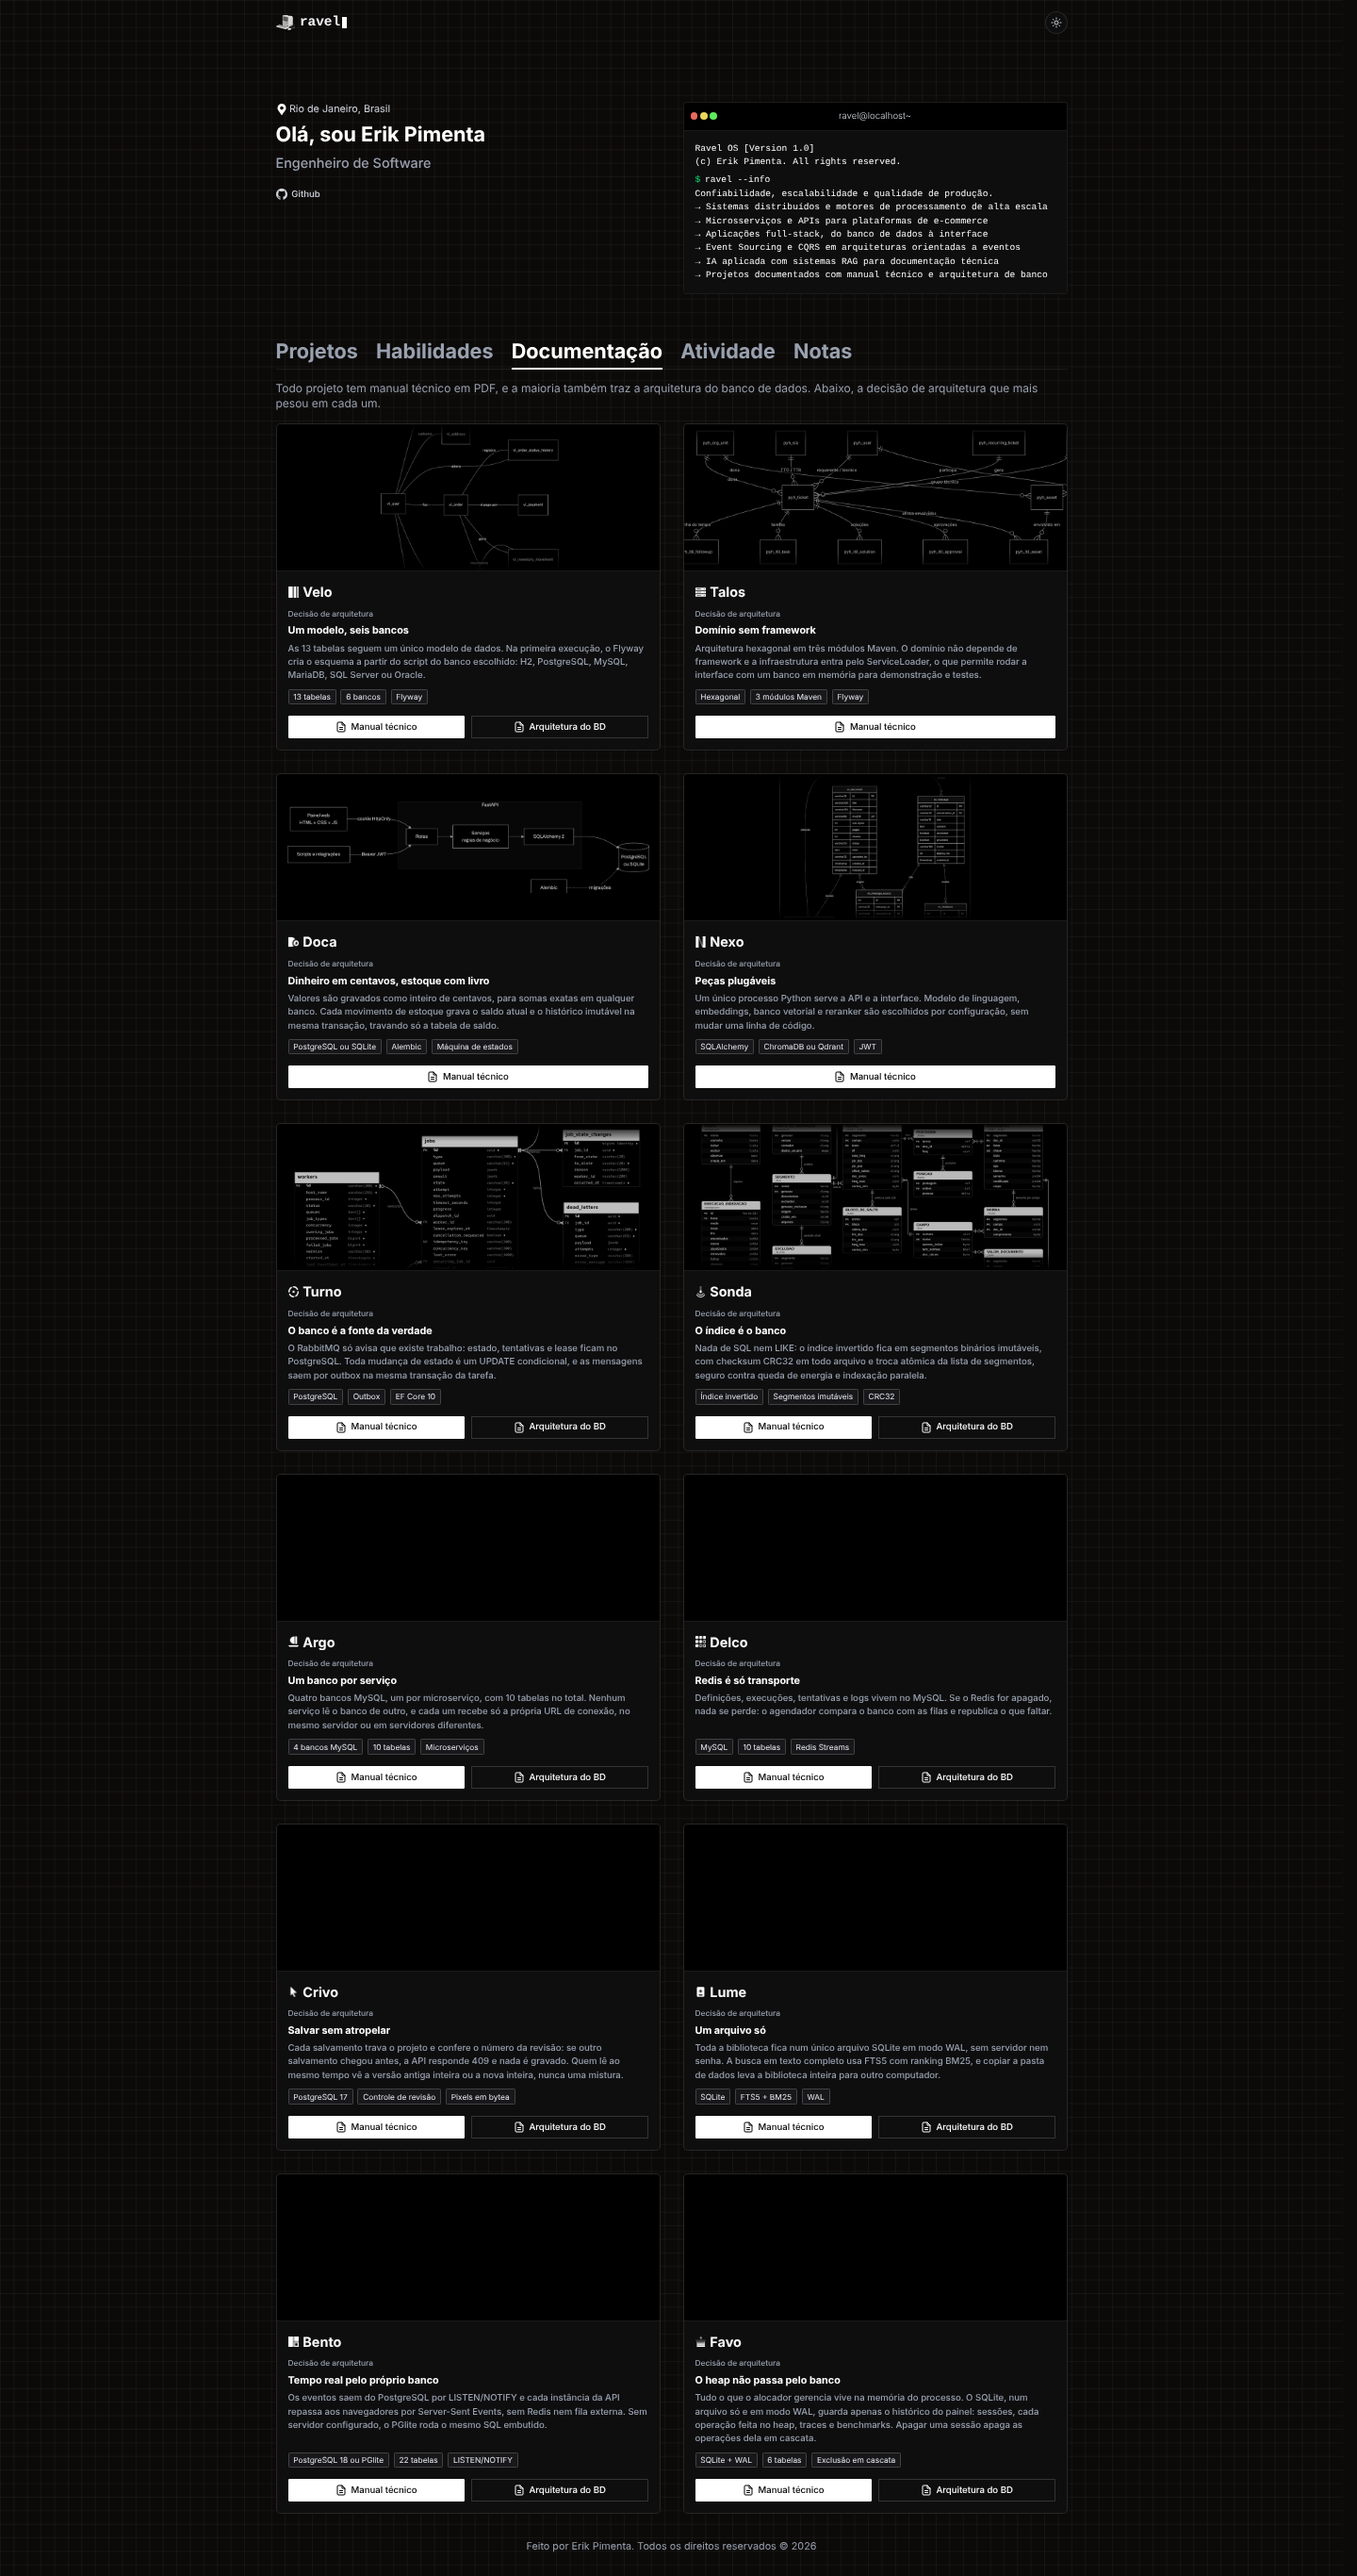
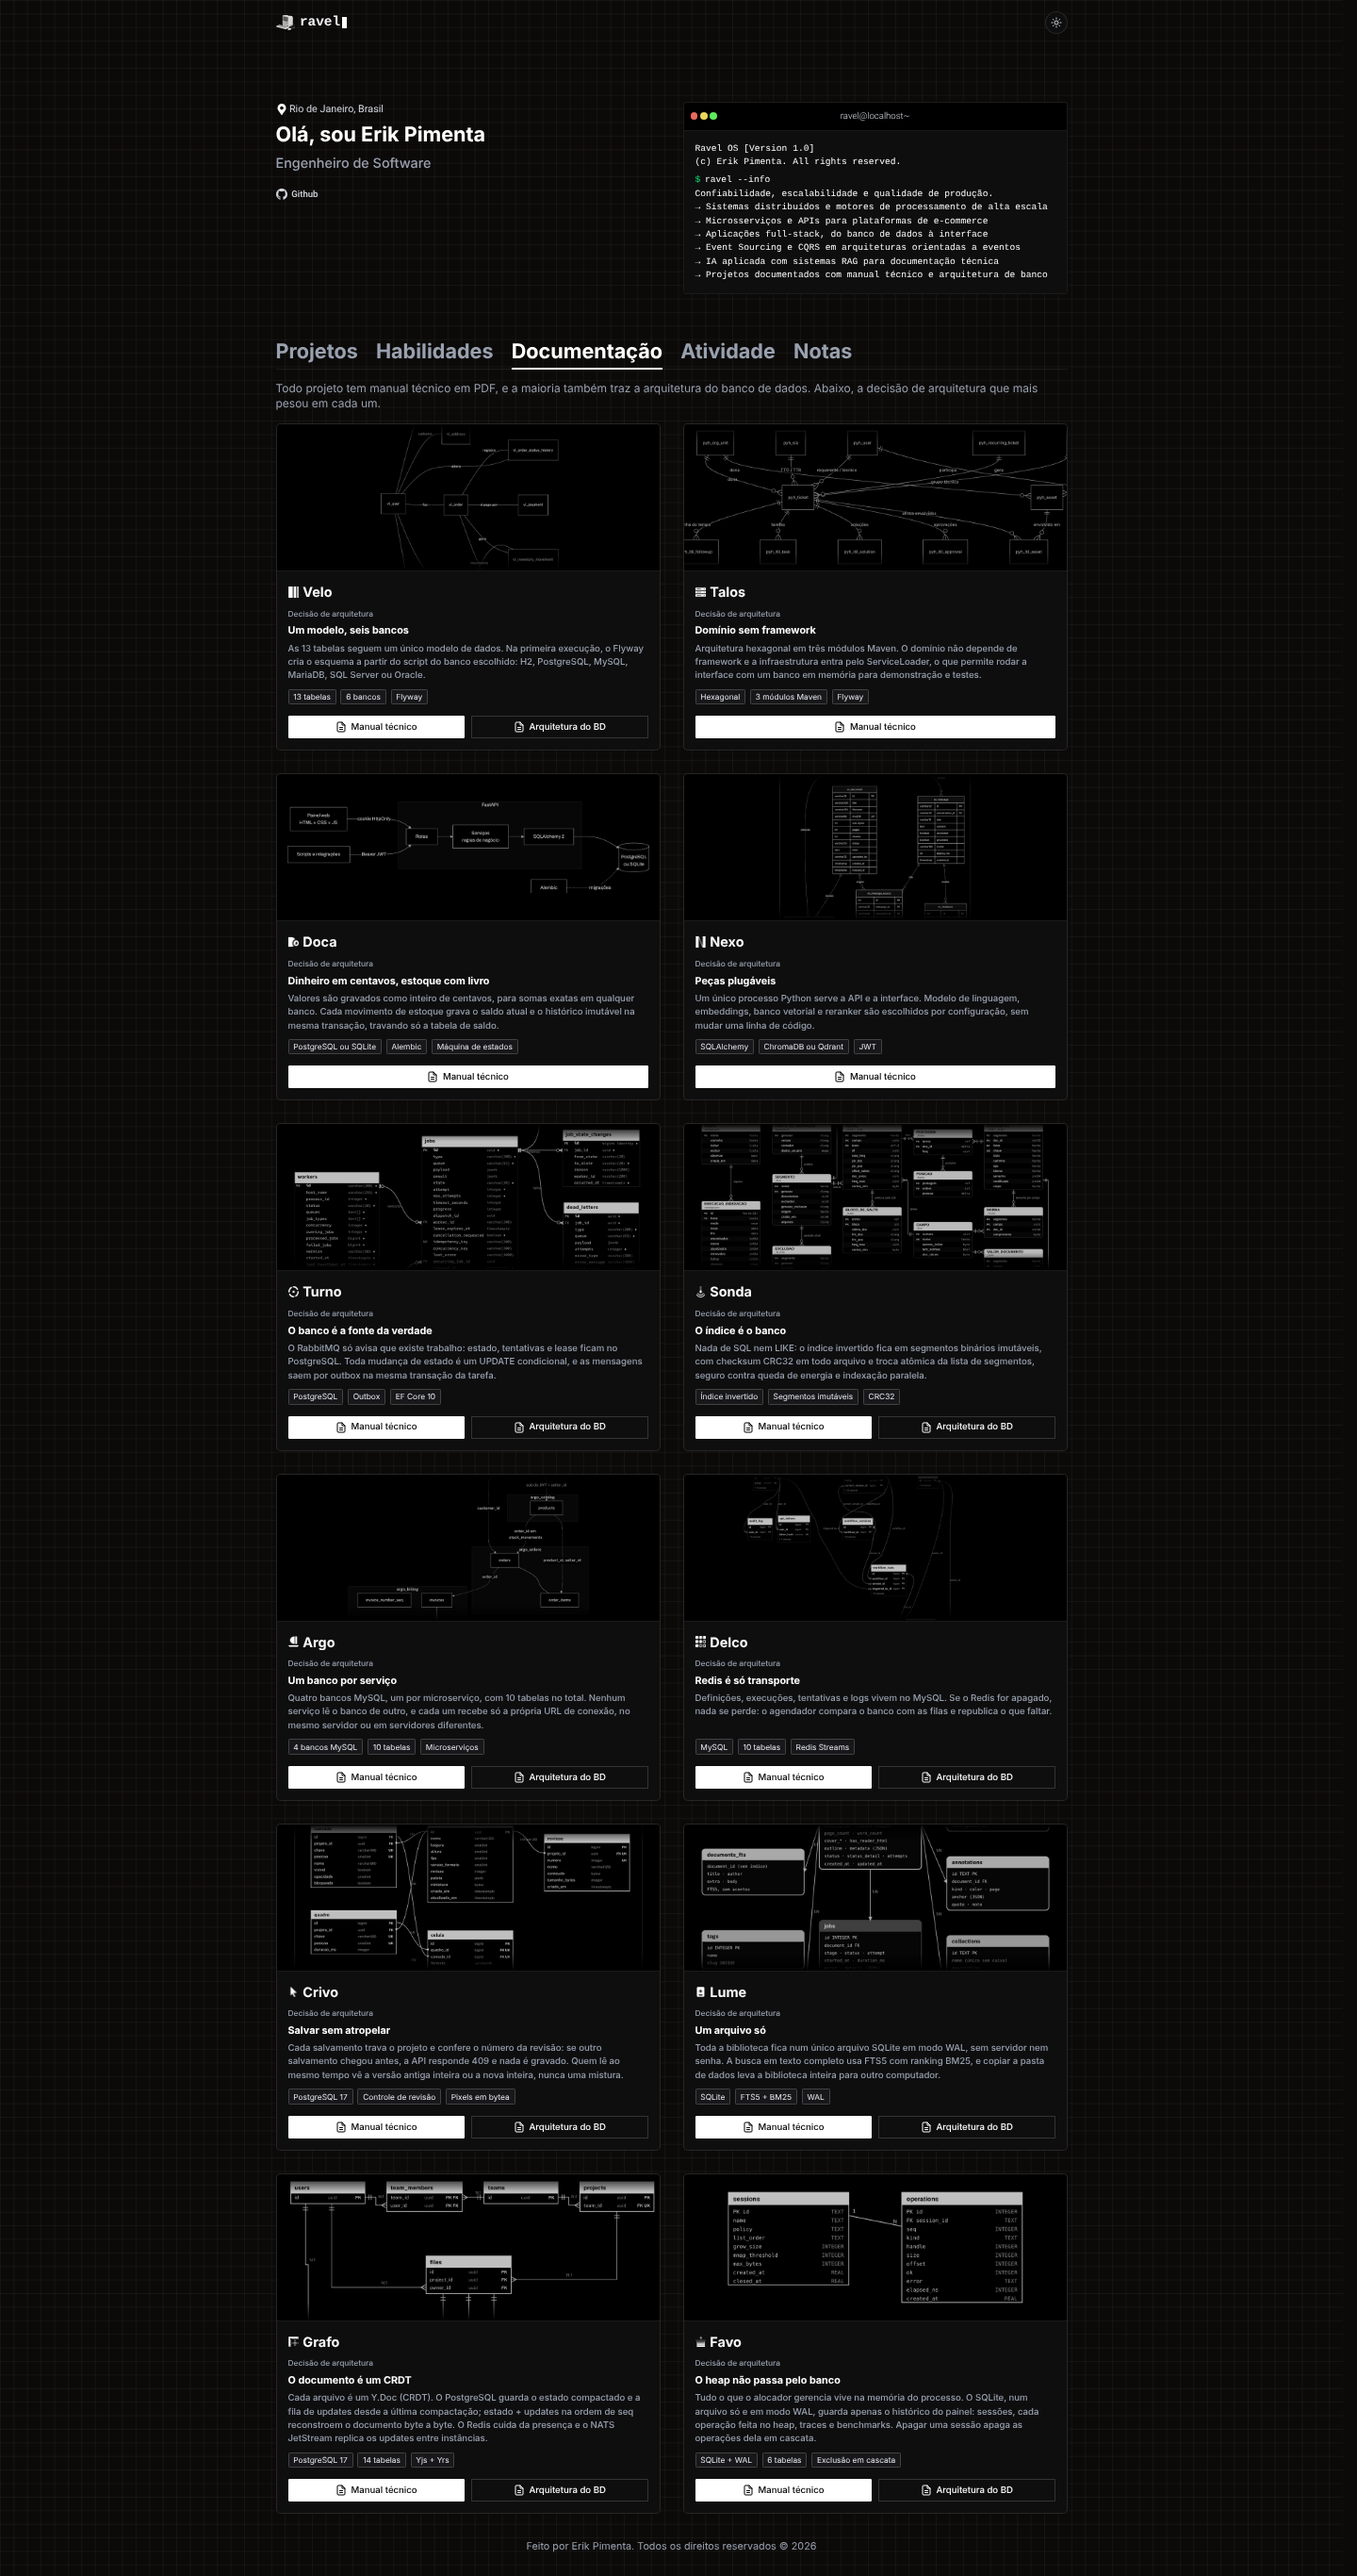
Portfólio 1.32.0: Grafo no lugar do Bento

diff --git a/js/documentacao.js b/js/documentacao.js
@@ -100,14 +100,14 @@ const DOCUMENTACAO = [
 		banco: "https://github.com/ravelroot/Document-Library-Desktop/blob/main/Banco-de-Dados-Lume-Desktop.pdf"
 	},
 	{
-		titulo: "Bento",
-		miniatura: "assets/documentacao/bento.png",
-		miniaturaDescricao: "Diagrama de relacionamentos do Bento, com a tabela de usuários no centro",
-		decisao: "Tempo real pelo próprio banco",
-		texto: "Os eventos saem do PostgreSQL por LISTEN/NOTIFY e cada instância da API repassa aos navegadores por Server-Sent Events, sem Redis nem fila externa. Sem servidor configurado, o PGlite roda o mesmo SQL embutido.",
-		destaques: ["PostgreSQL 18 ou PGlite", "22 tabelas", "LISTEN/NOTIFY"],
-		manual: "https://github.com/ravelroot/Data-Driven-Admin-Panel/blob/main/Manual-Bento.pdf",
-		banco: "https://github.com/ravelroot/Data-Driven-Admin-Panel/blob/main/Banco-de-Dados-Bento.pdf"
+		titulo: "Grafo",
+		miniatura: "assets/documentacao/grafo.png",
+		miniaturaDescricao: "Diagrama de relacionamentos do Grafo, das equipes e projetos até a tabela de arquivos",
+		decisao: "O documento é um CRDT",
+		texto: "Cada arquivo é um Y.Doc (CRDT). O PostgreSQL guarda o estado compactado e a fila de updates desde a última compactação; estado + updates na ordem de seq reconstroem o documento byte a byte. O Redis cuida da presença e o NATS JetStream replica os updates entre instâncias.",
+		destaques: ["PostgreSQL 17", "14 tabelas", "Yjs + Yrs"],
+		manual: "https://github.com/ravelroot/Collaborative-Design-and-Diagram-Editor/blob/main/Manual-Grafo.pdf",
+		banco: "https://github.com/ravelroot/Collaborative-Design-and-Diagram-Editor/blob/main/Banco-de-Dados-Grafo.pdf"
 	},
 	{
 		titulo: "Favo",

diff --git a/js/projetos.js b/js/projetos.js
@@ -83,12 +83,12 @@ const PROJETOS = [
 		tecnologias: ["Java", "Spring Boot", "SQLite", "PDFBox", "pdf.js", "Javascript", "Playwright"]
 	},
 	{
-		titulo: "Bento",
-		categoria: "Painel administrativo",
-		icone: "assets/projetos/bento.png?v=2",
-		descricao: "Bento é um painel administrativo SaaS em bento grid feito com Tailwind CSS v4: modo claro/escuro salvo no localStorage, KPIs com tendência, gráficos ApexCharts, tabelas com ordenação, busca e paginação, e gavetas laterais. API em TypeScript (Fastify) com PostgreSQL, JWT, permissões por papel, alertas em tempo real (SSE) e relatórios em CSV e PDF.",
-		link: "https://github.com/ravelroot/Data-Driven-Admin-Panel",
-		tecnologias: ["Typescript", "Tailwind CSS", "Node.js", "Fastify", "PostgreSQL", "ApexCharts", "Docker"]
+		titulo: "Grafo",
+		categoria: "Design e diagramas",
+		icone: "assets/projetos/grafo.png",
+		descricao: "Grafo é um editor colaborativo de design e diagramas no navegador, em JavaScript com PixiJS (WebGL2 e WebGPU) e núcleo geométrico em C++ compilado para WebAssembly. Frames, auto layout, componentes, fluxogramas, UML, ER e BPMN, protótipo clicável e edição em tempo real com Yjs, servidor em Rust, PostgreSQL, Redis e NATS.",
+		link: "https://github.com/ravelroot/Collaborative-Design-and-Diagram-Editor",
+		tecnologias: ["Javascript", "PixiJS", "C++", "WebAssembly", "Rust", "Yjs", "PostgreSQL", "Docker"]
 	},
 	{
 		titulo: "Favo",

diff --git a/index.html b/index.html
@@ -132,9 +132,9 @@
 		</footer>
 	</div>
 
-	<script src="js/projetos.js?v=18"></script>
+	<script src="js/projetos.js?v=19"></script>
 	<script src="js/habilidades.js?v=5"></script>
-	<script src="js/documentacao.js?v=6"></script>
+	<script src="js/documentacao.js?v=7"></script>
 	<script src="js/atividade.js?v=5"></script>
 	<script src="js/notas.js?v=4"></script>
 	<script src="js/main.js?v=15"></script>

diff --git a/README.md b/README.md
@@ -32,7 +32,7 @@ HTML5 · CSS3 · JavaScript (ES6+) · API do GitHub · Responsivo · Zero depend
 <p align="center"><b>Aba Documentação</b></p>
 
 <p align="center">
-  <img src="assets/preview-portfolio-documentacao.png?v=7" alt="Prévia da aba Documentação, com o diagrama do banco e os PDFs de cada projeto">
+  <img src="assets/preview-portfolio-documentacao.png?v=8" alt="Prévia da aba Documentação, com o diagrama do banco e os PDFs de cada projeto">
 </p>
 
 <p align="center"><b>Aba Atividade</b></p>
@@ -54,7 +54,7 @@ HTML5 · CSS3 · JavaScript (ES6+) · API do GitHub · Responsivo · Zero depend
 - **Apresentação** com localização, resumo e link discreto para o GitHub, alinhada ao topo do terminal.
 - **Terminal `ravel@localhost~`** com o `ravel --info` do Ravel OS: o que priorizo e as áreas em que atuo, com base nos meus projetos.
 - **Cinco abas: Projetos, Habilidades, Documentação, Atividade e Notas**: as seções ficam em abas separadas na mesma página, com sublinhado animado na aba ativa. Dá para trocar com o mouse ou pelas setas do teclado, e a última aba aberta fica salva no navegador. No celular, a fileira de abas rola para o lado e a aba ativa sempre fica à vista.
-  - **Projetos** em cartões com **vitrine no estilo do terminal**: o caminho do repositório no GitHub, a linguagem principal e o ícone do projeto em tamanho grande sobre um pontilhado. Abaixo vêm a categoria em destaque (por exemplo, *Pagamentos e checkout*), o nome, a descrição, as etiquetas de tecnologias e dois botões: **Ver projeto** (repositório) e **Manual técnico** (PDF). Acima da grade ficam os **filtros por linguagem** (Todos, Python, Java, TypeScript, JavaScript, C# e C, com o número de projetos em cada um), montados sozinhos a partir das tecnologias; ao filtrar, a etiqueta da linguagem escolhida fica realçada em cada cartão e o contador mostra quantos projetos aparecem. Os cartões **entram um a um** quando surgem na tela (e de novo a cada filtro). Ao passar o mouse, uma luz suave acompanha o cursor, o pontilhado se acende em volta dele, o ícone ganha um leve brilho, um cursor pisca ao lado do repositório e a seta do botão avança. Tudo respeita `prefers-reduced-motion`.
+  - **Projetos** em cartões com **vitrine no estilo do terminal**: o caminho do repositório no GitHub, a linguagem principal e o ícone do projeto em tamanho grande sobre um pontilhado. Abaixo vêm a categoria em destaque (por exemplo, *Pagamentos e checkout*), o nome, a descrição, as etiquetas de tecnologias e dois botões: **Ver projeto** (repositório) e **Manual técnico** (PDF). Acima da grade ficam os **filtros por linguagem** (Todos, Python, Java, JavaScript, TypeScript, C#, C, C++ e Rust, com o número de projetos em cada um), montados sozinhos a partir das tecnologias; ao filtrar, a etiqueta da linguagem escolhida fica realçada em cada cartão e o contador mostra quantos projetos aparecem. Os cartões **entram um a um** quando surgem na tela (e de novo a cada filtro). Ao passar o mouse, uma luz suave acompanha o cursor, o pontilhado se acende em volta dele, o ícone ganha um leve brilho, um cursor pisca ao lado do repositório e a seta do botão avança. Tudo respeita `prefers-reduced-motion`.
   - **Habilidades** organizadas por área (Front-end, Back-end, Bancos de Dados, IA & LLMs e Ferramentas), em cartões com um ícone para cada área, o número de itens e etiquetas agrupadas. IA & LLMs se divide em Arquitetura RAG e Modelos e protocolos; Ferramentas, em DevOps e infraestrutura, APIs, Desenvolvimento e Produtividade. As tecnologias que aparecem nos projetos podem ser clicadas: o clique abre a aba Projetos já filtrada por ela (o filtro aparece como um botão a mais, com um X para remover). Acima dos cartões, os botões **Todas** e **Usadas nos projetos** deixam as demais etiquetas apagadas. Os cartões entram um a um ao aparecer na tela, as etiquetas acendem em cascata e uma luz suave acompanha o mouse.
   - **Documentação**: um cartão por projeto com a miniatura do diagrama do banco (tirada do próprio PDF, em traço branco no tema escuro e grafite no claro), a decisão de arquitetura que mais pesou, etiquetas com os números principais e botões que abrem o **Manual técnico** e a **Arquitetura do BD** em PDF no GitHub. A miniatura também abre o PDF. O Talos, que ainda não tem o PDF do banco, mostra o diagrama de relacionamentos da área de atendimento (as tabelas em volta de `pyh_ticket`), desenhado a partir do diagrama Mermaid de `docs/banco-de-dados.md` do próprio repositório.
   - **Atividade**: dados ao vivo do GitHub, buscados só quando a aba é aberta. No topo, um selo com a data de criação da conta (**Membro desde 21 de outubro de 2026**, tirada da API do GitHub). Mostra as contribuições dos últimos 12 meses, sequência atual e maior sequência de dias com commits, número de repositórios públicos, o **gráfico de contribuições** dos últimos 12 meses (o mesmo calendário do perfil, em tons neutros que acompanham o tema). A janela anda junto com o tempo e atravessa a virada de ano: por isso o primeiro mês e cada janeiro mostram o ano, e a nota abaixo do gráfico diz o período exato. A partir de **1º de janeiro de 2027**, o cartão ganha sozinho os botões **12 meses · 2027 · 2026** para ver cada ano inteiro (um botão novo aparece a cada virada de ano); no ano em andamento, os dias que ainda não chegaram aparecem vazados, as **linguagens mais usadas** pela soma do código de todos os repositórios e os **repositórios que receberam commits por último**, com o ícone do projeto quando ele está no portfólio. Passar o mouse sobre um dia ou uma linguagem mostra os detalhes.
@@ -90,7 +90,7 @@ HTML5 · CSS3 · JavaScript (ES6+) · API do GitHub · Responsivo · Zero depend
 | [**Delco**](https://github.com/ravelroot/Workflow-Orchestration-Engine) | Delco é um motor de orquestração de workflows em Python e Django, no estilo Airflow/Temporal: pipelines como código, agendamento cron, worker pool em Redis Streams, retentativas e retomada exata após quedas. API em Django REST Framework, painel em tempo real com Django Channels, MySQL, Docker e Pytest. | Python 3.13 · Django 6 · Django REST Framework · Channels · MySQL · Redis Streams · Docker |
 | [**Crivo**](https://github.com/ravelroot/Pixel-Art-Matrix-Editor) | Crivo é um editor de pixel art no navegador em JavaScript puro: matriz RGBA via ImageData, balde por varredura, Bresenham e elipse de ponto médio, camadas, animação, simetria e histórico ilimitado com diffs e RLE. Paletas Game Boy, NES, Pico-8 e CGA, tons em OKLCH, PNG, sprite sheet e matrizes JSON/CSV/JS/Python. API Django e CLI Java. | JavaScript · Canvas 2D · Python 3.13 · Django 6.1 · PostgreSQL 17 · Java 21 · Docker |
 | [**Lume**](https://github.com/ravelroot/Document-Library-Desktop) | Lume é uma biblioteca de PDFs e DOCX em Java 21 + Spring Boot 4, com capas automáticas (PDFBox), descrição por IA, leitor próprio, estantes, coleções e busca em texto completo (SQLite FTS5). Um único Lume.exe portátil, com o Java embutido. | Java 21 · Spring Boot 4 · SQLite + FTS5 · Apache PDFBox · pdf.js · Playwright |
-| [**Bento**](https://github.com/ravelroot/Data-Driven-Admin-Panel) | Bento é um painel administrativo SaaS em bento grid feito com Tailwind CSS v4: modo claro/escuro salvo no localStorage, KPIs com tendência, gráficos ApexCharts, tabelas com ordenação, busca e paginação, e gavetas laterais. API em TypeScript (Fastify) com PostgreSQL, JWT, permissões por papel, alertas em tempo real (SSE) e relatórios em CSV e PDF. | TypeScript · Tailwind CSS 4 · Node.js 22 · Fastify 5 · PostgreSQL 18 ou PGlite · ApexCharts · Docker |
+| [**Grafo**](https://github.com/ravelroot/Collaborative-Design-and-Diagram-Editor) | Grafo é um editor colaborativo de design e diagramas no navegador, em JavaScript com PixiJS (WebGL2 e WebGPU) e núcleo geométrico em C++ compilado para WebAssembly. Frames, auto layout, componentes, fluxogramas, UML, ER e BPMN, protótipo clicável e edição em tempo real com Yjs, servidor em Rust, PostgreSQL, Redis e NATS. | JavaScript · PixiJS 8 · C++17 → WebAssembly · Rust (Axum + Tokio) · Yjs/Yrs · PostgreSQL 17 · Redis 7 · NATS JetStream · Go + WebView2 · Docker |
 | [**Favo**](https://github.com/ravelroot/Custom-Memory-Allocator) | Favo é um alocador de memória escrito do zero em C11 que substitui o malloc e o free do sistema: pede memória ao kernel com sbrk e mmap (VirtualAlloc no Windows), alinha blocos a 16 bytes, aloca por First-Fit, Next-Fit ou Best-Fit em árvore rubro-negra e funde vizinhos livres. Funciona via LD_PRELOAD, com API em FastAPI e painel web do heap ao vivo. | C11 · sbrk e mmap · CMake · LD_PRELOAD · Python 3.13 · FastAPI · WebSocket · SQLite · TypeScript · Vite · Docker |
 
 ## Como rodar
